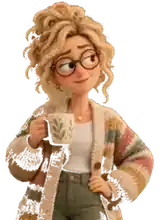
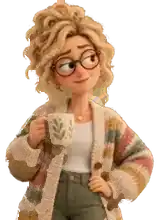
fix(ui): solid Pam cut-out; readable disabled buttons
- Pam's portrait had see-through patches inside her silhouette (a rough
  background removal). Make the inside of the silhouette fully opaque,
  rebuild those pixels' colour from their solid neighbours, keep the soft
  outer edge; saved losslessly. Source is still 159x220.
- Disabled button text darkened to 4.5:1 on the beige felt.

Claude-Session: https://claude.ai/code/session_01Y7bpt5CJuCJUDaaK8sM9F3

diff --git a/src/client/design.css b/src/client/design.css
@@ -278,3 +278,6 @@ dialog::backdrop { background: rgba(59, 42, 36, .45); backdrop-filter: blur(3px)
 }
 .icon-btn::before, .avatar::before, .bell::before, .dialog-x::before, .dialog-close::before { display: none; }
 .icon-btn:active, .avatar:active, .bell:active, .dialog-x:active, .dialog-close:active { filter: brightness(.95); }
+
+/* Disabled buttons: readable text on the beige felt (4.5:1). */
+.btn:disabled, .btn[aria-disabled="true"] { color: #5a4a42 !important; }
